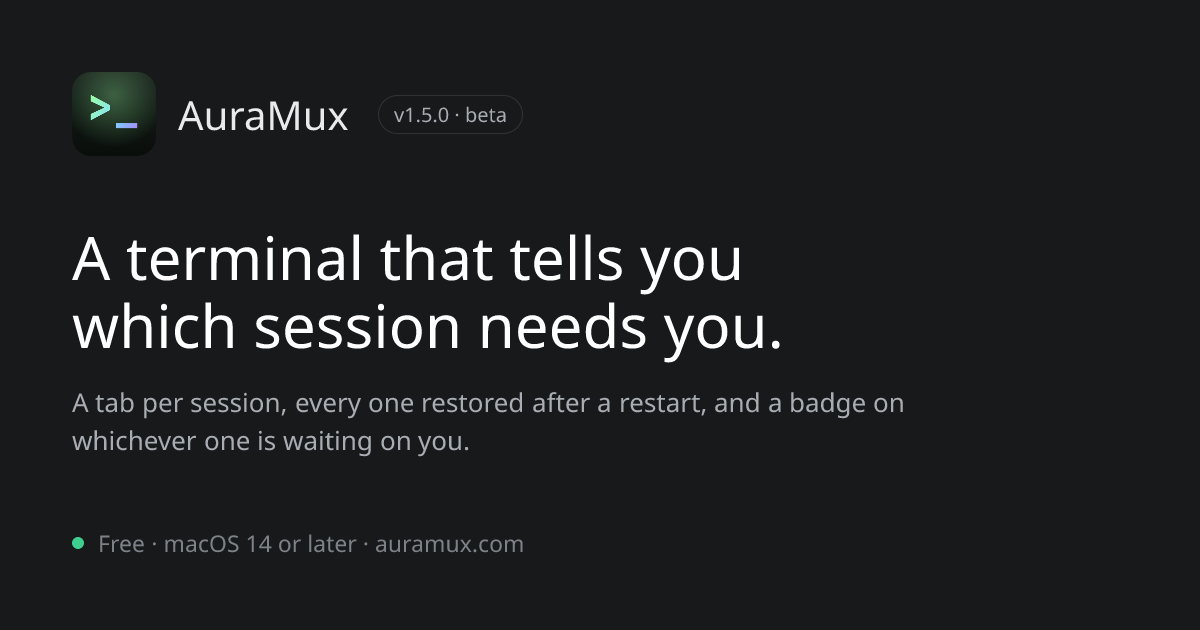
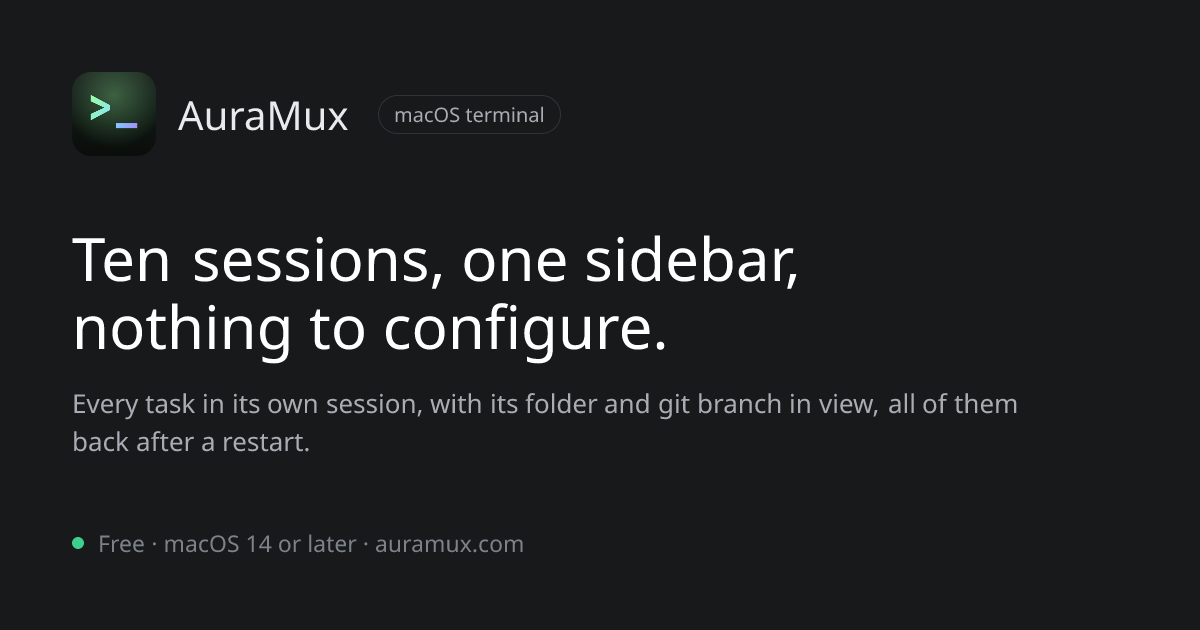
feat: lead with what is actually different, and publish the version automatically
The old headline promised to tell you which session needs you. That is a
benefit, not a difference: Belay makes the same promise and currently
backs it with more, including an iPhone app, git worktrees per agent and
remote hosts. Competing there would be arguing from behind.

What none of them can copy quickly is requiring nothing of you. tmux
costs a config and a prefix key, Belay costs a signup, iTerm2 costs the
setup you already have. This costs one command. So that is the headline,
and a new section says the four things plainly: nothing to configure,
the Claude Code setup nobody else does, session identity visible without
a keystroke, and archive instead of close.

It ends by naming where the others are better, because a page that
pretends to beat iTerm2 is neither true nor convincing.

Version publishing is now automatic. On release, an Action rewrites the
version in the page and in the structured data, then pings a Netlify
build hook so robinmehdee.com follows. A malformed tag fails the run
rather than being published. The secret goes through env, not an `if:`
condition, since the secrets context is not available to a step's if and
would silently evaluate empty.

Claude-Session: https://claude.ai/code/session_015LMqLNtqhfsTt1tAZjawj2

Changed region(s): [[0.0617, 0.3619, 0.6783, 0.573], [0.0617, 0.6032, 0.8633, 0.7238], [0.3392, 0.1508, 0.4625, 0.2111]]

diff --git a/docs/index.html b/docs/index.html
@@ -6,7 +6,7 @@
     <title>AuraMux, a macOS terminal built for AI coding sessions</title>
     <meta
       name="description"
-      content="A free macOS terminal with a tab per session, split view, and every session restored after a restart. Badges the tab whenever Claude Code finishes or needs an answer. Universal build, macOS 14 or later."
+      content="A free macOS terminal that keeps every task in its own session, with the folder and git branch visible, and brings them all back after a restart. Badges whichever session is waiting on you. No config file to write. macOS 14 or later, Apple Silicon and Intel."
     />
     <link rel="canonical" href="https://auramux.com/" />
     <meta name="theme-color" content="#17191b" />
@@ -21,7 +21,7 @@
     />
     <meta
       property="og:description"
-      content="A tab per session, every one restored after a restart, and a badge on whichever session is waiting on you."
+      content="Every task in its own session, with its folder and git branch visible, all of them restored after a restart. Nothing to configure."
     />
     <meta property="og:image" content="https://auramux.com/og.png" />
     <meta property="og:image:width" content="1200" />
@@ -33,7 +33,7 @@
     />
     <meta
       name="twitter:description"
-      content="A tab per session, every one restored after a restart, and a badge on whichever session is waiting on you."
+      content="Every task in its own session, with its folder and git branch visible, all of them restored after a restart. Nothing to configure."
     />
     <meta name="twitter:image" content="https://auramux.com/og.png" />
 
@@ -237,13 +237,14 @@
             <span class="badge hidden" id="installs-badge"></span>
           </div>
 
-          <h1>A terminal that tells you which session needs you.</h1>
+          <h1>Ten sessions, one sidebar, nothing to configure.</h1>
 
           <p class="lede">
-            AuraMux keeps every task in its own tab, brings them all back after a
-            restart, and marks the ones waiting on input. It was built for the
-            way work actually goes when several AI coding sessions are running at
-            once and you cannot watch all of them.
+            AuraMux keeps every task in its own session, with its name, its
+            folder and its git branch visible, and brings them all back after a
+            restart. The ones waiting on you are marked, so you can tell at a
+            glance. No config file, no prefix key, no signup. One command and it
+            is there.
           </p>
 
           <div class="install">
@@ -487,10 +488,73 @@
         </div>
       </section>
 
+
       <!-- ---------------------------------------------------------------- -->
-      <section aria-label="Claude Code notifications">
+      <section aria-label="What is different here">
         <div class="wrap">
-          <p class="eyebrow" data-n="02">Claude Code</p>
+          <p class="eyebrow" data-n="02">What is different here</p>
+
+          <div class="grid">
+            <div class="card diff">
+              <h3>Nothing to configure</h3>
+              <p>
+                There is no config file. No prefix key to learn, no plugin
+                manager, no dotfile to carry between machines. You install it and
+                the session list is already there, doing its job. If you have
+                tried a terminal multiplexer before and given up somewhere in the
+                setup, this is the part that is different.
+              </p>
+            </div>
+
+            <div class="card diff">
+              <h3>Claude Code, set up for you</h3>
+              <p>
+                Claude Code only turns on bell notifications by itself in three
+                terminals. Everywhere else it finishes, waits, and nobody
+                notices. AuraMux offers to fix that on first launch with one
+                click, writing a single key into your settings and backing the
+                file up before it does.
+              </p>
+              <p class="small">
+                <a href="#claude-code">How that works</a>
+              </p>
+            </div>
+
+            <div class="card diff">
+              <h3>Sessions you can see, not remember</h3>
+              <p>
+                Every session shows its name, its folder, its git branch and a
+                marker when the tree is dirty, in a sidebar that is always
+                visible. Nothing to press, nothing to hold in your head. Other
+                tools can name sessions; you usually have to ask them to show
+                you.
+              </p>
+            </div>
+
+            <div class="card diff">
+              <h3>Archive instead of close</h3>
+              <p>
+                Finished with a session but not ready to lose it? Archive it. It
+                leaves the list, keeps its history, and comes back whenever you
+                want it. Closing a terminal tab is final. This is not.
+              </p>
+            </div>
+          </div>
+
+          <p class="note">
+            <b>And to be fair about the rest.</b> iTerm2 does far more than this
+            does. Ghostty is faster. A multiplexer like tmux goes places AuraMux
+            cannot, such as a server over SSH. If those are what you need, use
+            them, and so do I. AuraMux is for the narrower case of several
+            long-running sessions on one Mac that you would like to see at a
+            glance without setting anything up.
+          </p>
+        </div>
+      </section>
+      <!-- ---------------------------------------------------------------- -->
+      <section id="claude-code" aria-label="Claude Code notifications">
+        <div class="wrap">
+          <p class="eyebrow" data-n="03">Claude Code</p>
           <div class="callout">
             <h2>It will tell you when Claude Code needs an answer.</h2>
             <p>
@@ -514,7 +578,7 @@
       <!-- ---------------------------------------------------------------- -->
       <section id="features">
         <div class="wrap">
-          <p class="eyebrow" data-n="03">What it does</p>
+          <p class="eyebrow" data-n="04">What it does</p>
           <div class="grid three">
             <div class="card">
               <h3>Tabs</h3>
@@ -591,7 +655,7 @@
       <!-- ---------------------------------------------------------------- -->
       <section aria-label="Keyboard shortcuts and themes">
         <div class="wrap">
-          <p class="eyebrow" data-n="04">Shortcuts</p>
+          <p class="eyebrow" data-n="05">Shortcuts</p>
           <div class="keys">
             <span class="key"><kbd>&#8984;T</kbd> New tab</span>
             <span class="key"><kbd>&#8679;&#8984;O</kbd> New tab in folder</span>
@@ -601,7 +665,7 @@
             <span class="key"><kbd>&#8984;L</kbd> Lock now</span>
           </div>
 
-          <p class="eyebrow" data-n="05" style="margin-top: 3rem">Themes</p>
+          <p class="eyebrow" data-n="06" style="margin-top: 3rem">Themes</p>
           <div class="themes">
             <div class="theme">
               <span class="sw" aria-hidden="true"
@@ -679,7 +743,7 @@
       <!-- ---------------------------------------------------------------- -->
       <section aria-label="Installing and setup">
         <div class="wrap">
-          <p class="eyebrow" data-n="06">After installing</p>
+          <p class="eyebrow" data-n="07">After installing</p>
 
           <dl class="trust" style="margin-bottom: 1.5rem">
             <div>
@@ -749,7 +813,7 @@
       <!-- ---------------------------------------------------------------- -->
       <section id="updating">
         <div class="wrap">
-          <p class="eyebrow" data-n="07">Updating</p>
+          <p class="eyebrow" data-n="08">Updating</p>
 
           <ol class="steps">
             <li>
@@ -800,7 +864,7 @@
       <!-- ---------------------------------------------------------------- -->
       <section id="faq">
         <div class="wrap">
-          <p class="eyebrow" data-n="08">Questions</p>
+          <p class="eyebrow" data-n="09">Questions</p>
 
           <div class="faq">
             <details>

diff --git a/docs/style.css b/docs/style.css
@@ -1190,3 +1190,15 @@ footer {
   content: " \2192";
   color: var(--faint);
 }
+
+/* The four points that separate this from the alternatives. Marked with the
+   accent rather than made louder, since the claims should carry themselves. */
+.card.diff {
+  border-left: 2px solid var(--accent-dim);
+}
+.card.diff h3 {
+  color: var(--bright);
+}
+.card.diff p a {
+  color: var(--accent);
+}
